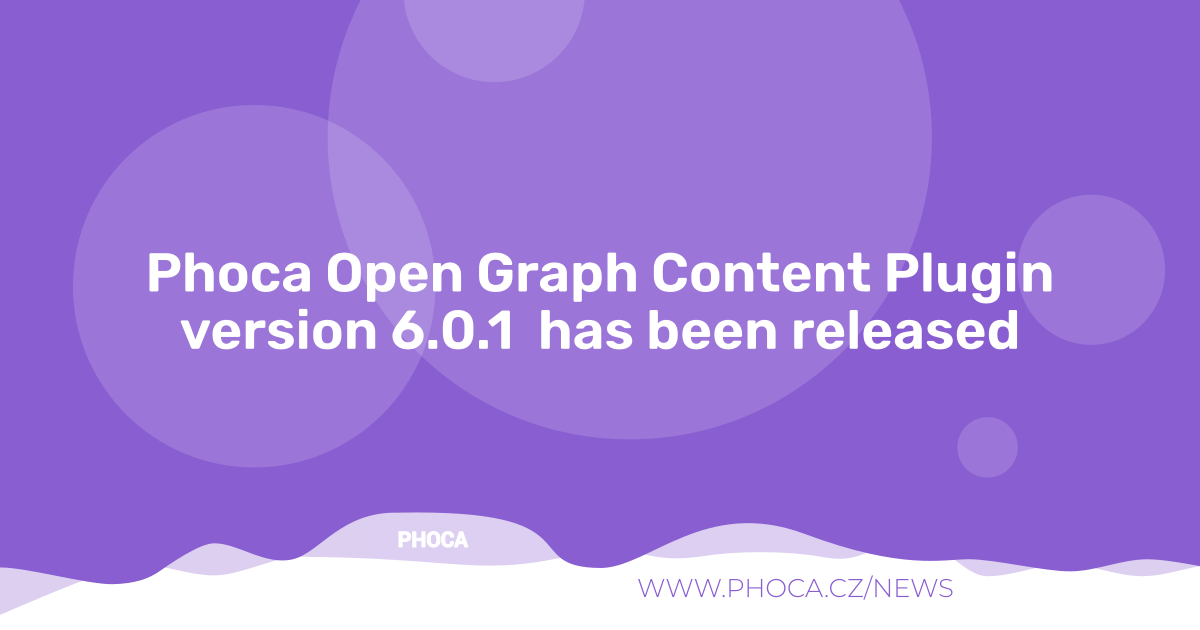
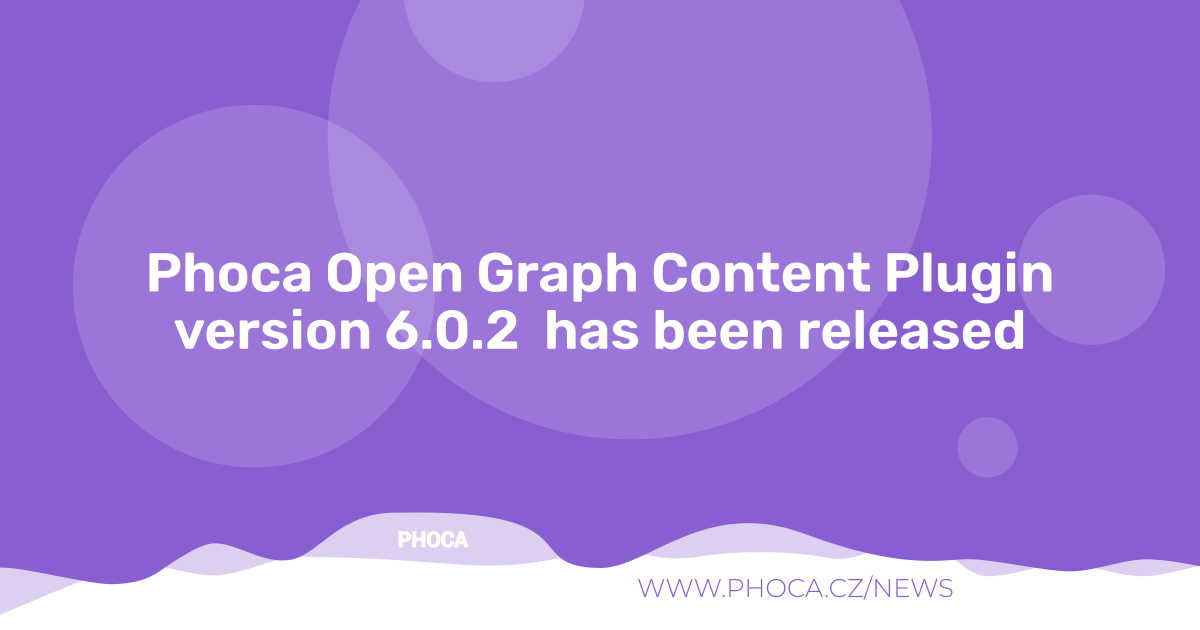
6.0.2

Changed region(s): [[0.1233, 0.4825, 0.8633, 0.573]]

diff --git a/phocaopengraph.php b/phocaopengraph.php
@@ -221,13 +221,11 @@ class plgContentPhocaOpenGraph extends CMSPlugin
 		$desc_type_category	= $this->params->get('desc_type_category', 1);
 
 		$active = $app->getMenu()->getActive();
-		$activeParams = [];
+		/*$activeParams = [];
 		if ($active) {
 			$activeParams = $active->getParams();
-		}
-
-
-
+		}*/
+		$activeParams = $active ? $active->getParams() : new Registry();
 
 
 		// We need help variables as we cannot change the $row variable - such then will influence global settings